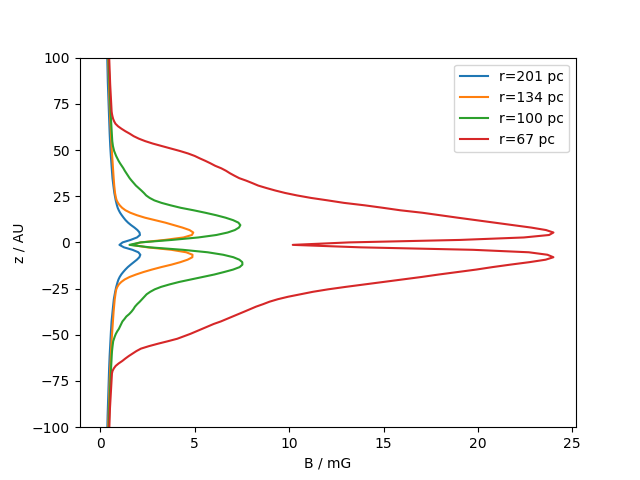
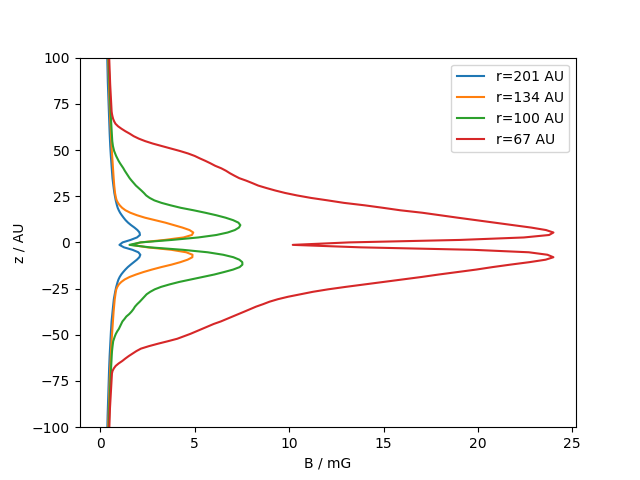
.

Changed region(s): [[0.7812, 0.125, 0.875, 0.3125], [0.6875, 0.1562, 0.7188, 0.25], [0.6875, 0.2812, 0.7188, 0.3125]]

diff --git a/lewis_arepo_code/analyse.py b/lewis_arepo_code/analyse.py
@@ -526,7 +526,7 @@ def B_vs_z(name,r,imradius_CU,pixels):
 			z=i*pixel_size-(pixels/2*pixel_size) #want the middle to be z=0
 			Bs=np.append(Bs,B_value*code_units.B_cu*1e3) #B in mG 
 			zs=np.append(zs,z*code_units.d_cu/ap.au.cgs.value) #z in AU
-		plt.plot(Bs,zs,label='r=%.0f pc'%(r[j]*code_units.d_cu/ap.au.cgs.value)),plt.ylabel('z / AU'),plt.xlabel('B / mG')
+		plt.plot(Bs,zs,label='r=%.0f AU'%(r[j]*code_units.d_cu/ap.au.cgs.value)),plt.ylabel('z / AU'),plt.xlabel('B / mG')
 	plt.legend()
 	
 
